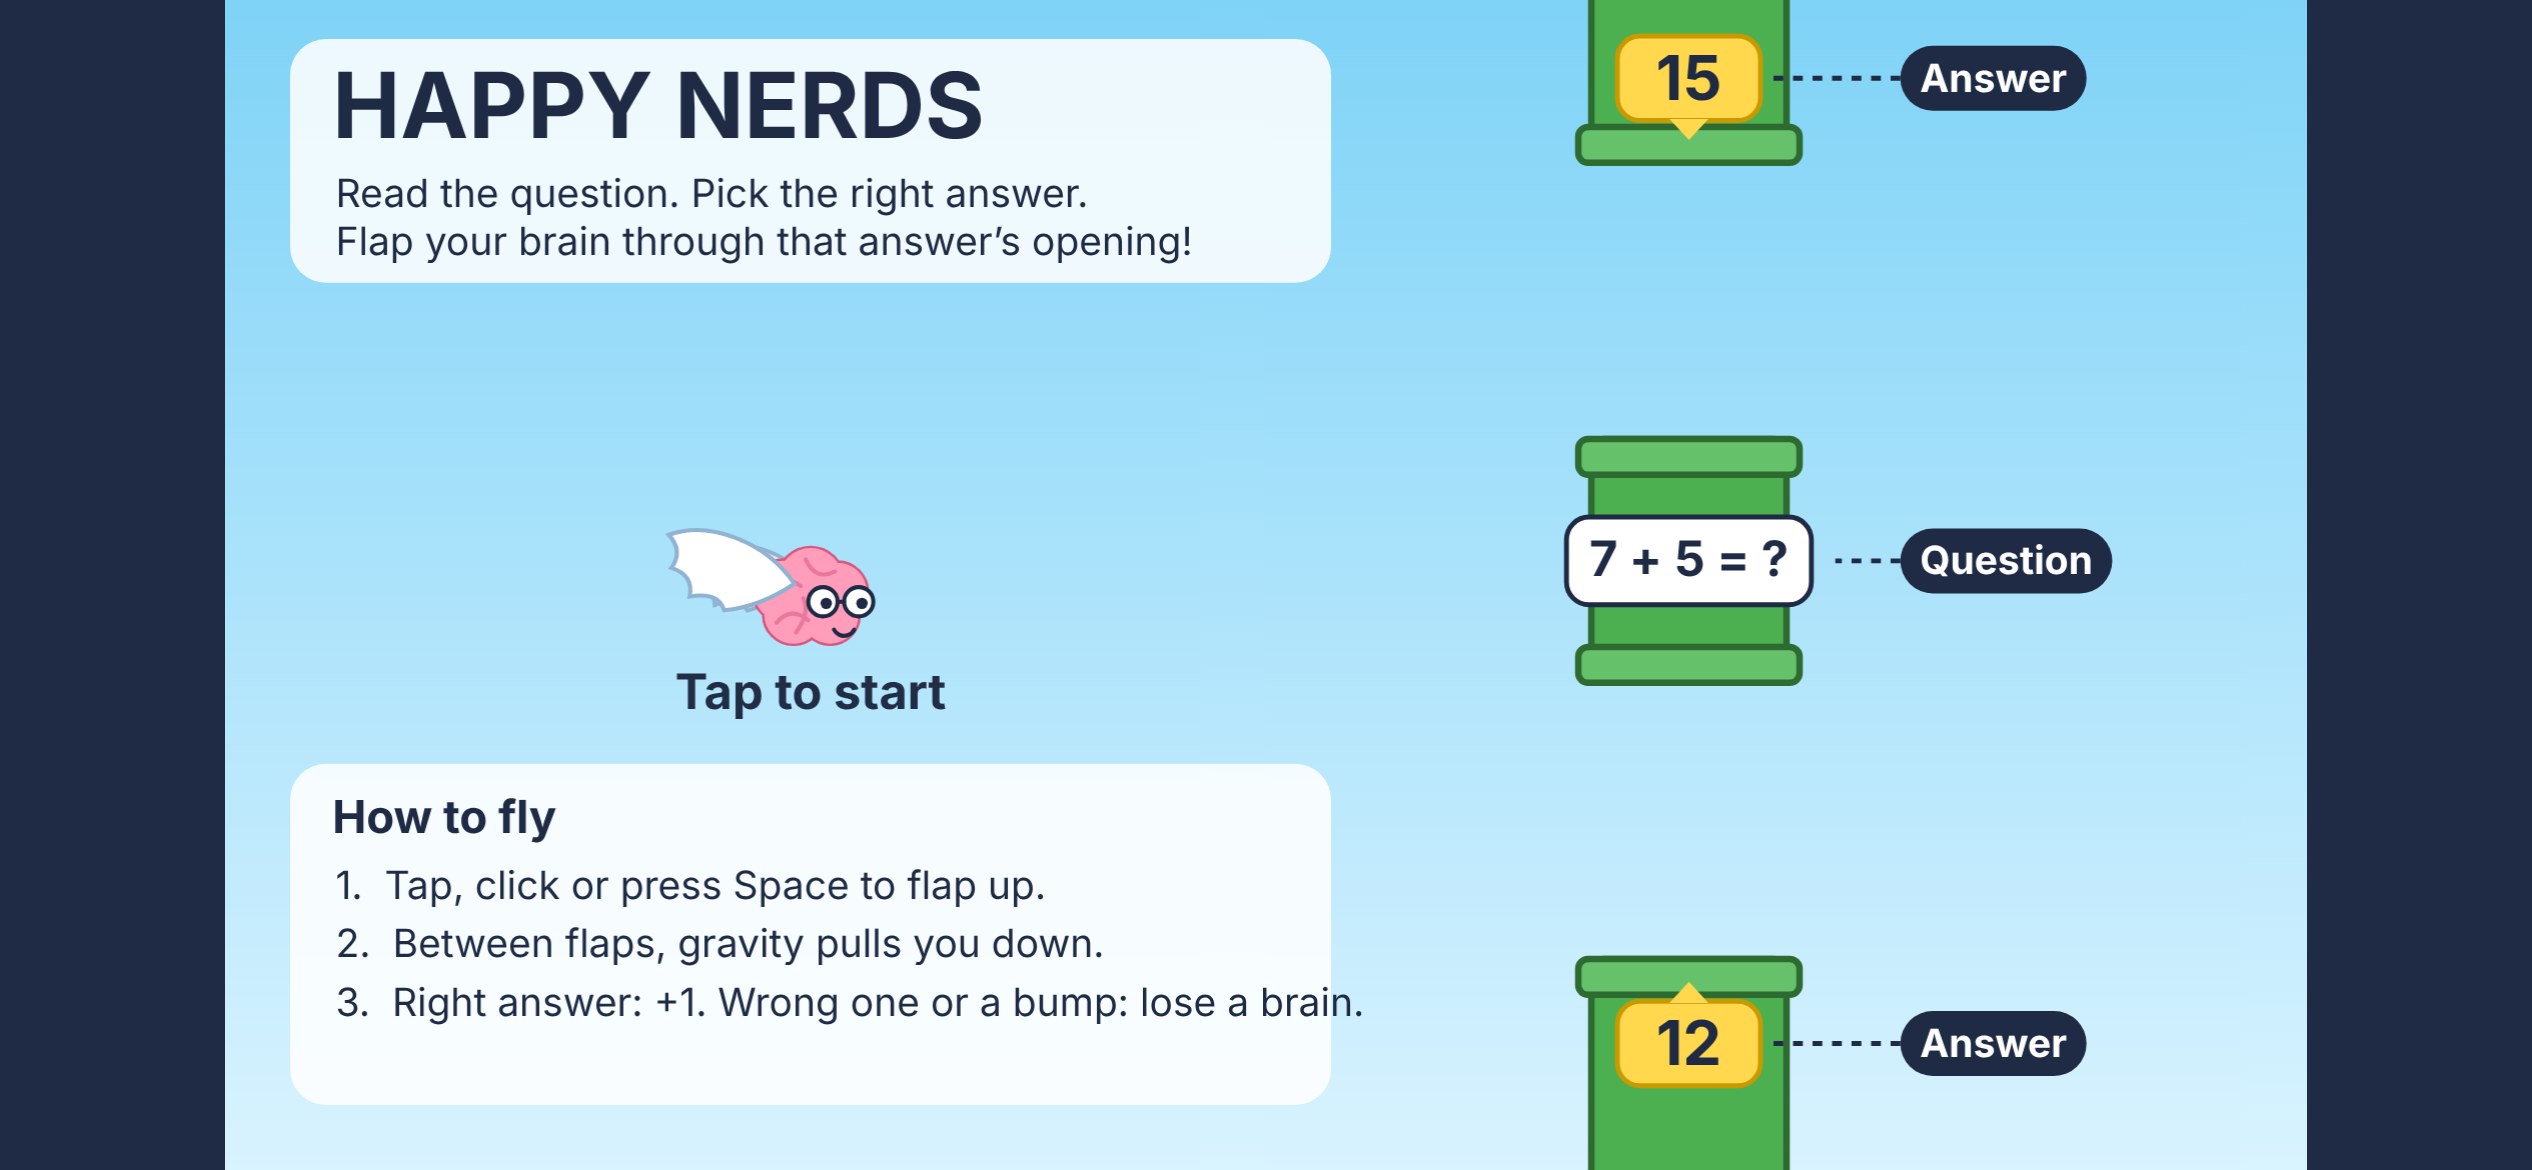
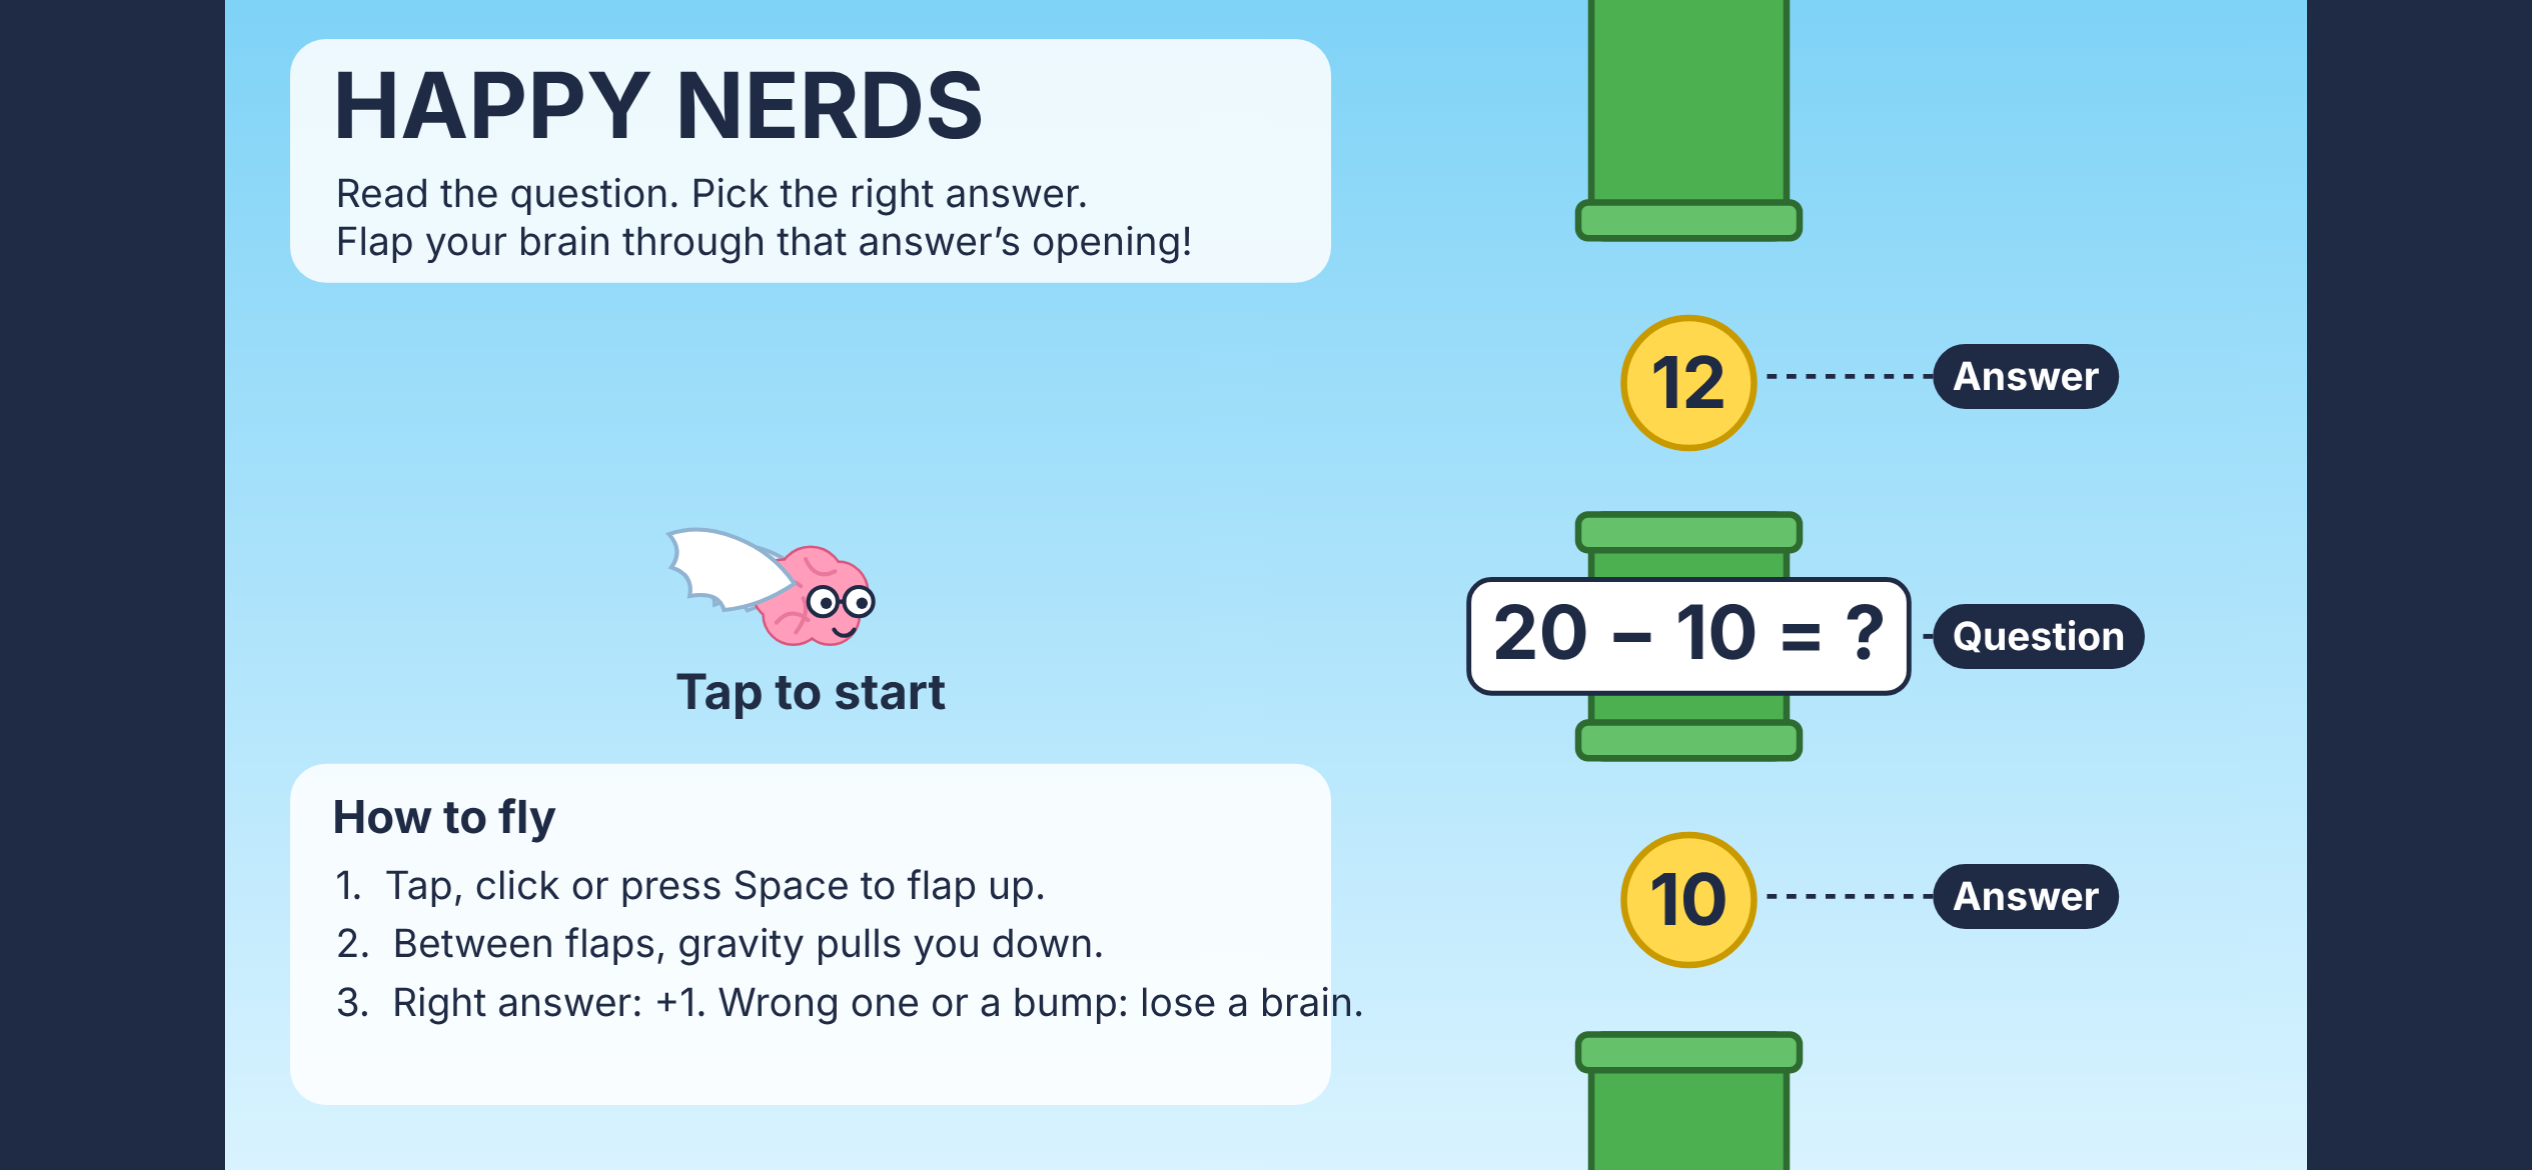
Happy Nerds: smaller flaps, floating answers, slower start, Brain dead
- Each flap lifts the brain about 40 px instead of ~74 px, for finer steering.
- Questions are larger; each answer floats in the middle of its own gap.
- Gates start at 115 px/s and build up with correct answers.
- Game over reads "Brain dead".
- Each gate can cost at most one life (the slower start exposed a double
  penalty when the brain stayed inside a gate past its recovery blink).

Claude-Session: https://claude.ai/code/session_01Hcywv3AaTgXzDRBZ98knbc

diff --git a/happy-nerds/src/render.ts b/happy-nerds/src/render.ts
@@ -19,7 +19,7 @@ const COLORS = {
   answer: '#FFD84D',
   answerEdge: '#C99A00',
   panel: 'rgba(255,255,255,0.86)',
-  shade: 'rgba(31,42,68,0.82)',
+  shade: 'rgba(31,42,68,0.94)',
   good: '#2E9E44',
   bad: '#D63A3A',
 };
@@ -58,9 +58,9 @@ export function wrapLines(ctx: CanvasRenderingContext2D, text: string, maxWidth:
 
 // ---------- Gate ----------
 
-const QUESTION_MAX_WIDTH = 230;
+const QUESTION_MAX_WIDTH = 300;
 
-function drawGate(ctx: CanvasRenderingContext2D, gate: Gate) {
+function drawGate(ctx: CanvasRenderingContext2D, gate: Gate, time: number) {
   const left = gate.x - GATE.width / 2;
   const [[aTop, aBottom], [bTop, bBottom]] = openings(gate);
   const solids: [number, number][] = [
@@ -86,9 +86,9 @@ function drawGate(ctx: CanvasRenderingContext2D, gate: Gate) {
   }
 
   // The question sits on the solid middle section, between its two answers.
-  ctx.font = `bold 30px ${FONT}`;
+  ctx.font = `bold 46px ${FONT}`;
   const lines = wrapLines(ctx, gate.question, QUESTION_MAX_WIDTH);
-  const lineH = 34;
+  const lineH = 50;
   const w = Math.min(QUESTION_MAX_WIDTH, Math.max(...lines.map((l) => ctx.measureText(l).width))) + 28;
   const h = lines.length * lineH + 20;
   const midY = (aBottom + bTop) / 2;
@@ -103,32 +103,23 @@ function drawGate(ctx: CanvasRenderingContext2D, gate: Gate) {
   ctx.textBaseline = 'middle';
   lines.forEach((l, i) => ctx.fillText(l, gate.x, midY - h / 2 + 10 + lineH * (i + 0.5)));
 
-  // Each answer hangs on the wall right at the outer edge of its own opening,
-  // with a pointer into the opening, so it never sits in the flight path.
-  drawAnswer(ctx, gate.x, aTop - 22 - 30, String(gate.answers[0]), 'down');
-  drawAnswer(ctx, gate.x, bBottom + 22 + 30, String(gate.answers[1]), 'up');
+  // Each answer floats in the middle of its own gap, so it's obvious which gap it belongs to.
+  const bob = (phase: number) => Math.sin(time * 2.2 + phase) * 5;
+  drawAnswer(ctx, gate.x, (aTop + aBottom) / 2 + bob(0), String(gate.answers[0]));
+  drawAnswer(ctx, gate.x, (bTop + bBottom) / 2 + bob(1.7), String(gate.answers[1]));
 }
 
-function drawAnswer(ctx: CanvasRenderingContext2D, x: number, y: number, text: string, point: 'up' | 'down') {
-  const w = 88;
-  const h = 52;
+function drawAnswer(ctx: CanvasRenderingContext2D, x: number, y: number, text: string) {
+  const r = 40;
   ctx.fillStyle = COLORS.answer;
   ctx.strokeStyle = COLORS.answerEdge;
-  ctx.lineWidth = 3;
-  roundRect(ctx, x - w / 2, y - h / 2, w, h, 14);
+  ctx.lineWidth = 4;
+  ctx.beginPath();
+  ctx.arc(x, y, r, 0, Math.PI * 2);
   ctx.fill();
   ctx.stroke();
-  // Pointer toward the opening.
-  const tipY = point === 'down' ? y + h / 2 + 12 : y - h / 2 - 12;
-  const baseY = point === 'down' ? y + h / 2 - 1 : y - h / 2 + 1;
-  ctx.beginPath();
-  ctx.moveTo(x - 12, baseY);
-  ctx.lineTo(x + 12, baseY);
-  ctx.lineTo(x, tipY);
-  ctx.closePath();
-  ctx.fill();
   ctx.fillStyle = COLORS.ink;
-  ctx.font = `bold 38px ${FONT}`;
+  ctx.font = `bold 44px ${FONT}`;
   ctx.textAlign = 'center';
   ctx.textBaseline = 'middle';
   ctx.fillText(text, x, y + 2);
@@ -306,11 +297,11 @@ function callout(ctx: CanvasRenderingContext2D, text: string, x: number, y: numb
 function drawTutorial(ctx: CanvasRenderingContext2D, s: GameState, time: number) {
   const gate = s.gates[0];
   if (gate) {
-    const [[aTop], [, bBottom]] = openings(gate);
-    const cx = gate.x + GATE.width / 2 + 70;
-    callout(ctx, 'Answer', cx, aTop - 52, gate.x + 48, aTop - 52);
-    callout(ctx, 'Question', cx, gate.centerY, gate.x + 90, gate.centerY);
-    callout(ctx, 'Answer', cx, bBottom + 52, gate.x + 48, bBottom + 52);
+    const [[aTop, aBottom], [bTop, bBottom]] = openings(gate);
+    const cx = gate.x + GATE.width / 2 + 90;
+    callout(ctx, 'Answer', cx, (aTop + aBottom) / 2, gate.x + 44, (aTop + aBottom) / 2);
+    callout(ctx, 'Question', cx, gate.centerY, gate.x + 140, gate.centerY);
+    callout(ctx, 'Answer', cx, (bTop + bBottom) / 2, gate.x + 44, (bTop + bBottom) / 2);
   }
 
   ctx.fillStyle = COLORS.panel;
@@ -360,7 +351,7 @@ function drawGameOver(ctx: CanvasRenderingContext2D, s: GameState, best: number)
   ctx.textAlign = 'center';
   ctx.textBaseline = 'middle';
   ctx.font = `bold 56px ${FONT}`;
-  ctx.fillText('Brain drain!', VIEW.width / 2, y + 62);
+  ctx.fillText('Brain dead', VIEW.width / 2, y + 62);
   ctx.font = `28px ${FONT}`;
   ctx.fillText(`You got ${s.score} right.`, VIEW.width / 2, y + 122);
   ctx.fillText(best > 0 && s.score >= best ? 'New best!' : `Best: ${best}`, VIEW.width / 2, y + 160);
@@ -375,7 +366,7 @@ export function render(ctx: CanvasRenderingContext2D, s: GameState, popups: Popu
   ctx.fillStyle = sky;
   ctx.fillRect(0, 0, VIEW.width, VIEW.height);
 
-  for (const g of s.gates) drawGate(ctx, g);
+  for (const g of s.gates) drawGate(ctx, g, time);
 
   const blink = s.brain.invuln > 0 && Math.floor(time * 12) % 2 === 0;
   if (!blink) drawBrain(ctx, BRAIN.x, s.brain.y, s.brain, time);

diff --git a/happy-nerds/src/game.ts b/happy-nerds/src/game.ts
@@ -15,6 +15,8 @@ export interface Gate {
   correct: 0 | 1;
   /** Set once, the first time the gate is judged; it is never judged again. */
   result: GateResult | null;
+  /** A gate can cost at most one life, however long the brain stays tangled in it. */
+  penalized: boolean;
 }
 
 export interface Brain {
@@ -84,6 +86,7 @@ export function spawnGate(s: GameState, x = VIEW.width + GATE.width): Gate {
     answers: correct === 0 ? [p.answer, p.wrong] : [p.wrong, p.answer],
     correct,
     result: null,
+    penalized: false,
   };
   s.gates.push(gate);
   return gate;
@@ -137,7 +140,11 @@ export function flap(s: GameState): void {
 }
 
 function penalize(s: GameState, type: 'wrong' | 'crash', gate?: Gate) {
-  if (gate && gate.result === null) gate.result = type;
+  if (gate) {
+    if (gate.penalized) return;
+    gate.penalized = true;
+    if (gate.result === null) gate.result = type;
+  }
   s.lives -= 1;
   s.brain.invuln = INVULN;
   s.events.push(type === 'wrong' ? { type, gate: gate! } : { type, gate });

diff --git a/happy-nerds/tests/game.test.ts b/happy-nerds/tests/game.test.ts
@@ -53,6 +53,18 @@ describe('flight', () => {
     expect(s.brain.vy).toBeGreaterThan(0);
   });
 
+  it('each flap is a small, steerable hop', () => {
+    const s = started();
+    let top = s.brain.y;
+    const y0 = s.brain.y;
+    for (let i = 0; i < 60; i++) {
+      step(s, DT);
+      top = Math.min(top, s.brain.y);
+    }
+    expect(y0 - top).toBeGreaterThan(30);
+    expect(y0 - top).toBeLessThanOrEqual(45);
+  });
+
   it('the brain keeps its horizontal position; gates only move sideways', () => {
     const s = started();
     const g = s.gates[0];
@@ -152,6 +164,14 @@ describe('gates', () => {
       step(s, DT);
     }
     expect(s.lives).toBe(LIVES - 1);
+  });
+
+  it('starts slow and speeds up with correct answers', () => {
+    const s = started();
+    expect(s.speed).toBeLessThanOrEqual(120);
+    const g = s.gates[0];
+    holdAt(s, g, openingCenter(g, g.correct));
+    expect(s.speed).toBeGreaterThan(GATE.startSpeed);
   });
 
   it('there is time to read each gate before it arrives', () => {

diff --git a/happy-nerds/src/config.ts b/happy-nerds/src/config.ts
@@ -9,9 +9,10 @@ export const BRAIN = {
   bodyRadius: 30,
   /** Collision circle around the main body only. Smaller than the drawing so grazes are forgiven. */
   hitRadius: 23,
+  /** Small, steerable hops: each flap lifts the brain about 40 px. */
   gravity: 1250,
-  flapSpeed: 430,
-  maxFall: 620,
+  flapSpeed: 320,
+  maxFall: 520,
   /** Touching the ceiling just stops the climb; touching the floor costs a life. */
   ceiling: 40,
   floor: VIEW.height - 30,
@@ -28,9 +29,10 @@ export const GATE = {
   centerJitter: 30,
   /** Horizontal distance between gates. */
   spacing: 640,
-  startSpeed: 170,
-  speedPerPoint: 3,
-  maxSpeed: 250,
+  /** Starts slow so players can find the rhythm, then builds up with each correct answer. */
+  startSpeed: 115,
+  speedPerPoint: 4,
+  maxSpeed: 240,
 };
 
 export const LIVES = 3;

diff --git a/happy-nerds/README.md b/happy-nerds/README.md
@@ -8,7 +8,7 @@ Happy Nerds is a standalone project. It shares nothing with the Homeward Hound g
 
 ![Gameplay](docs/previews/gameplay.png)
 
-More previews: [tutorial](docs/previews/tutorial.png), [flap](docs/previews/flap.png), [wrong answer](docs/previews/wrong-answer.png), [phone](docs/previews/phone-tutorial.png).
+More previews: [tutorial](docs/previews/tutorial.png), [flap](docs/previews/flap.png), [wrong answer](docs/previews/wrong-answer.png), [phone](docs/previews/phone-tutorial.png), [brain dead](docs/previews/brain-dead.png).
 
 ## Play the latest build
 
@@ -35,14 +35,14 @@ npm run build      # typecheck + static build into happy-nerds/dist/
 
 - The brain keeps the same spot across the screen. Each flap pushes it up, and gravity pulls it down between flaps. Touching the top of the screen just stops the climb. Dropping to the bottom costs a brain and bounces you back up.
 - Gates move toward you and never move up or down. Each gate has:
-  - an **upper opening** with its answer on the wall just above it,
-  - the **question** on the solid section between the openings,
-  - a **lower opening** with its answer on the wall just below it.
+  - an **upper gap** with its answer floating inside it,
+  - the **question**, in large type, on the solid section between the gaps,
+  - a **lower gap** with its answer floating inside it.
 
-  All three sit together, so you can compare both answers without looking back at the brain. The labels are on solid wall, never in the flight path.
+  All three sit together, so you can compare both answers without looking back at the brain. Each answer floats right in its own gap, so it's clear which gap it belongs to. The brain flies through the answer bubble; the bubble doesn't collide.
 - **Right opening:** +1 point. **Wrong opening:** lose a brain, and the game shows the right answer. **Hitting a solid part:** lose a brain. Each gate is judged only once.
-- You have 3 brains. After losing one, you get a short blink of safety.
-- Gates speed up slightly with every correct answer. Your best score is saved in the browser.
+- You have 3 brains. After losing one, you get a short blink of safety. Each gate can cost at most one brain. Losing the last one shows **Brain dead**.
+- Gates start slow so players can find the rhythm, then speed up slightly with every correct answer. Your best score is saved in the browser.
 - The start screen is the tutorial. The first real gate waits on screen with its question and answers labelled, and the brain hovers until your first flap.
 
 ## Level 1: adding and taking away
@@ -59,9 +59,9 @@ npm run build      # typecheck + static build into happy-nerds/dist/
 | Brain hit circle | radius 23 px | Inside the 30 px body drawing. Wings and wing tips never collide. |
 | Opening height | 170 px | More than 3× the hit circle, so there's room to be a bit off. |
 | Question section | 150 px | Fits a wrapped question of up to 3 lines. |
-| Gate speed | 170 → 250 px/s | At top speed, a gate still takes over 3.5 s from the right edge to the brain, enough time to read and steer. |
+| Gate speed | 115 px/s at the start, +4 per correct answer, up to 240 px/s | The slow start gives about 8 s from a gate appearing to reaching it. Even at top speed it takes over 3.5 s. |
 | Gate spacing | 640 px | Enough time to cross from one opening to the other between gates. |
-| Flap / gravity | 430 px/s up, 1250 px/s² | Each tap gives a short, controllable hop. |
+| Flap / gravity | 320 px/s up, 1250 px/s² | Each tap lifts the brain about 40 px, small enough to steer precisely into a gap. |
 
 All tuning is in `src/config.ts`.
 
